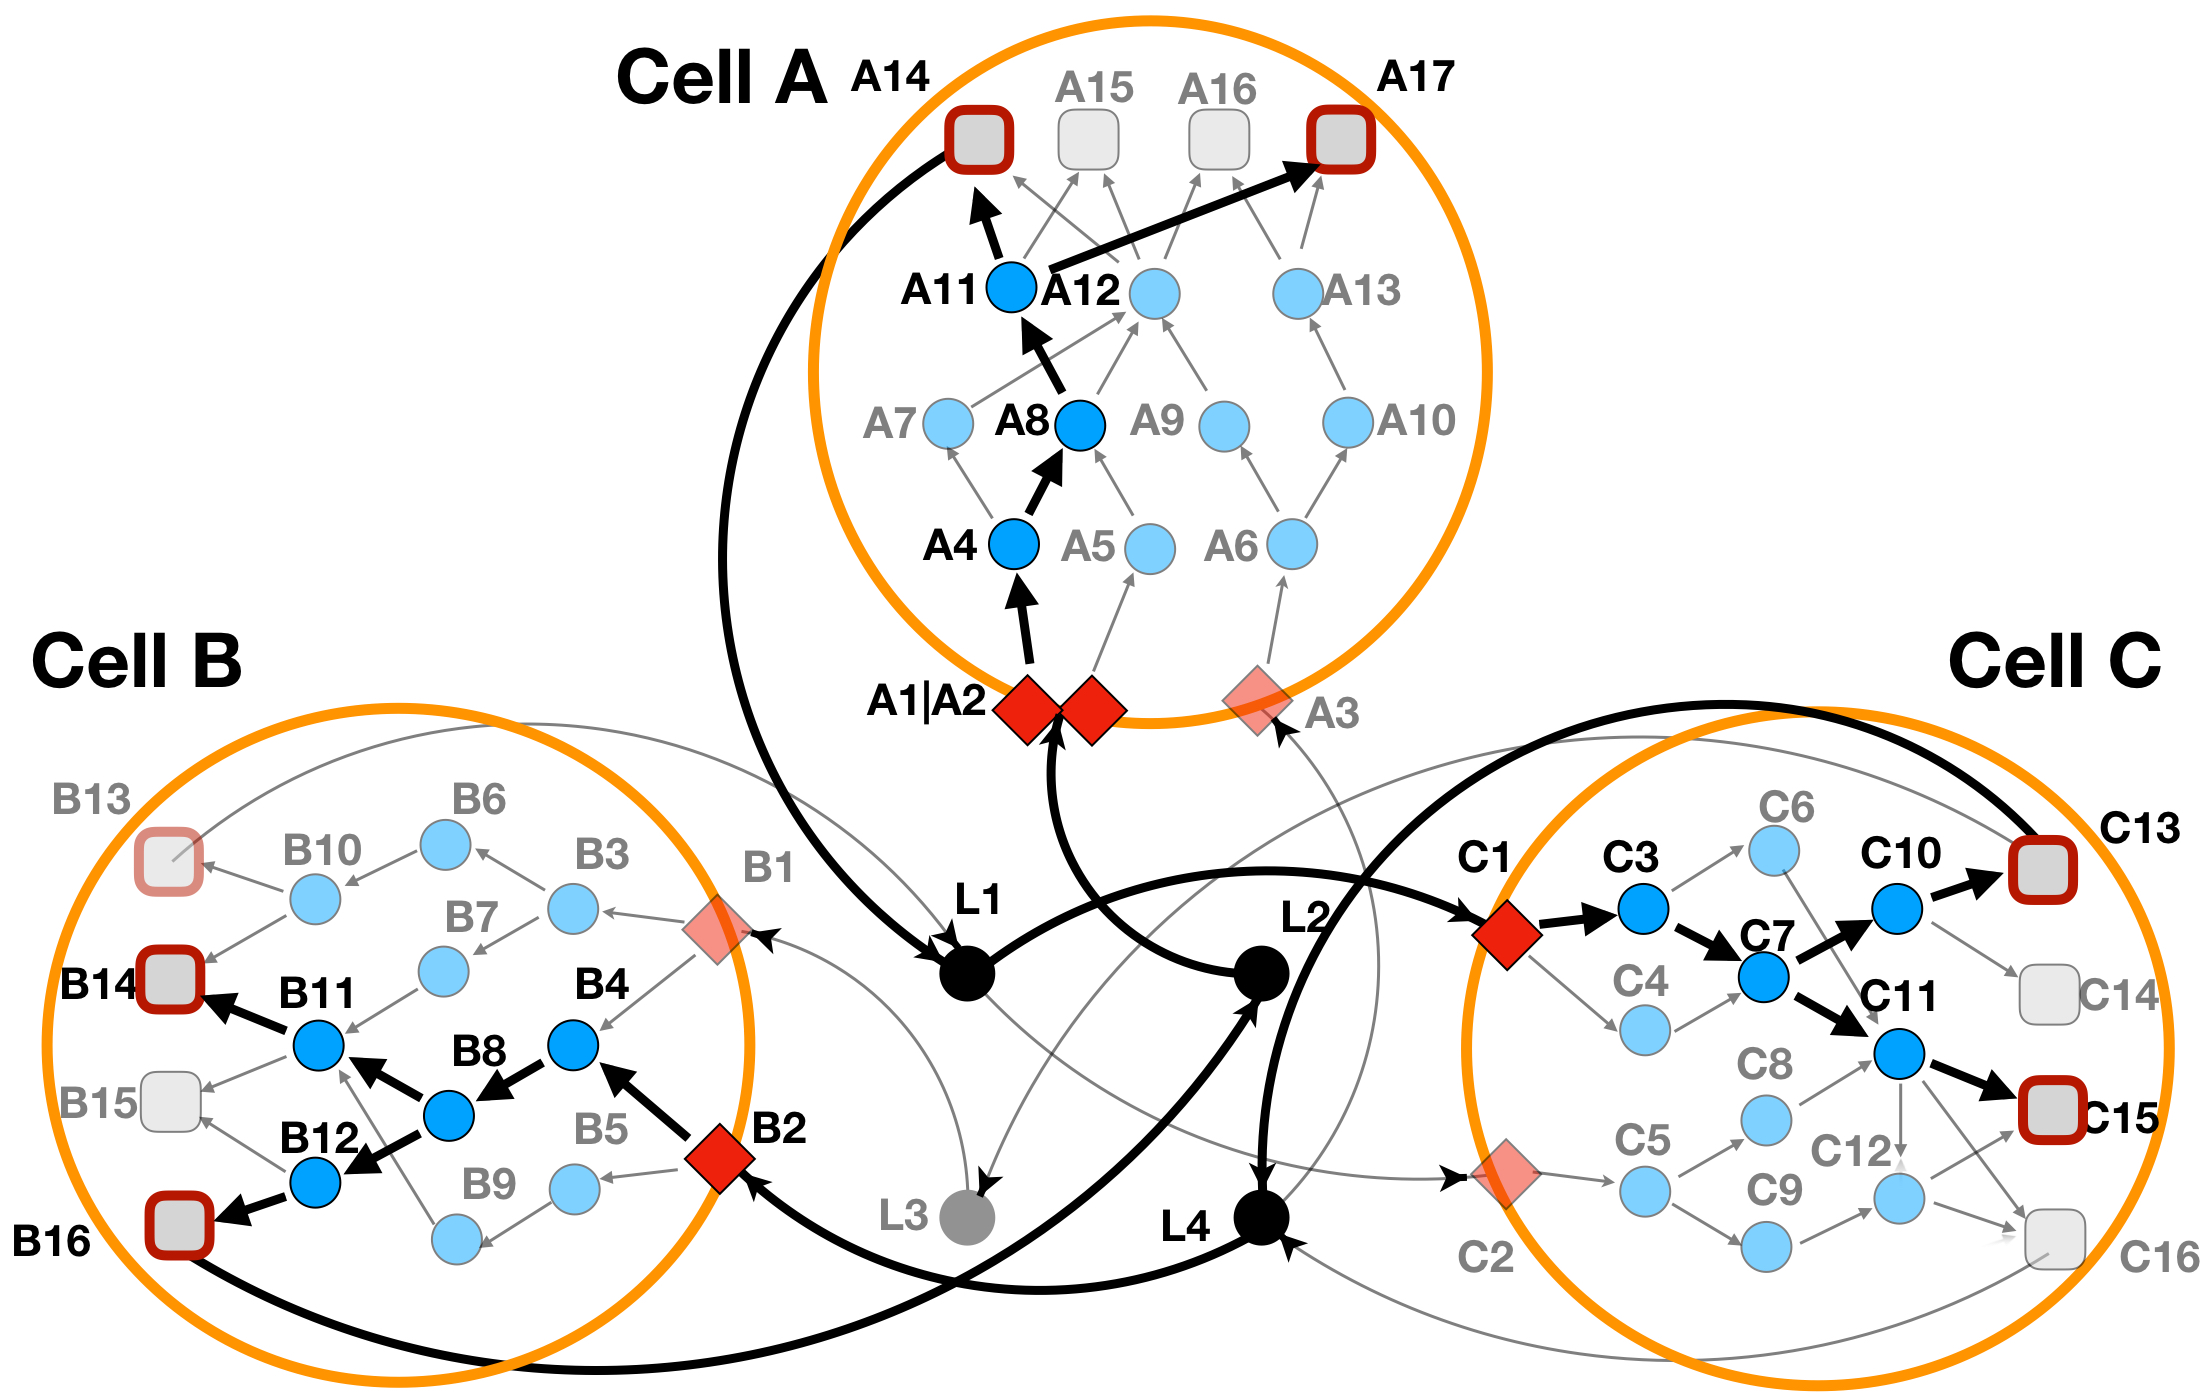
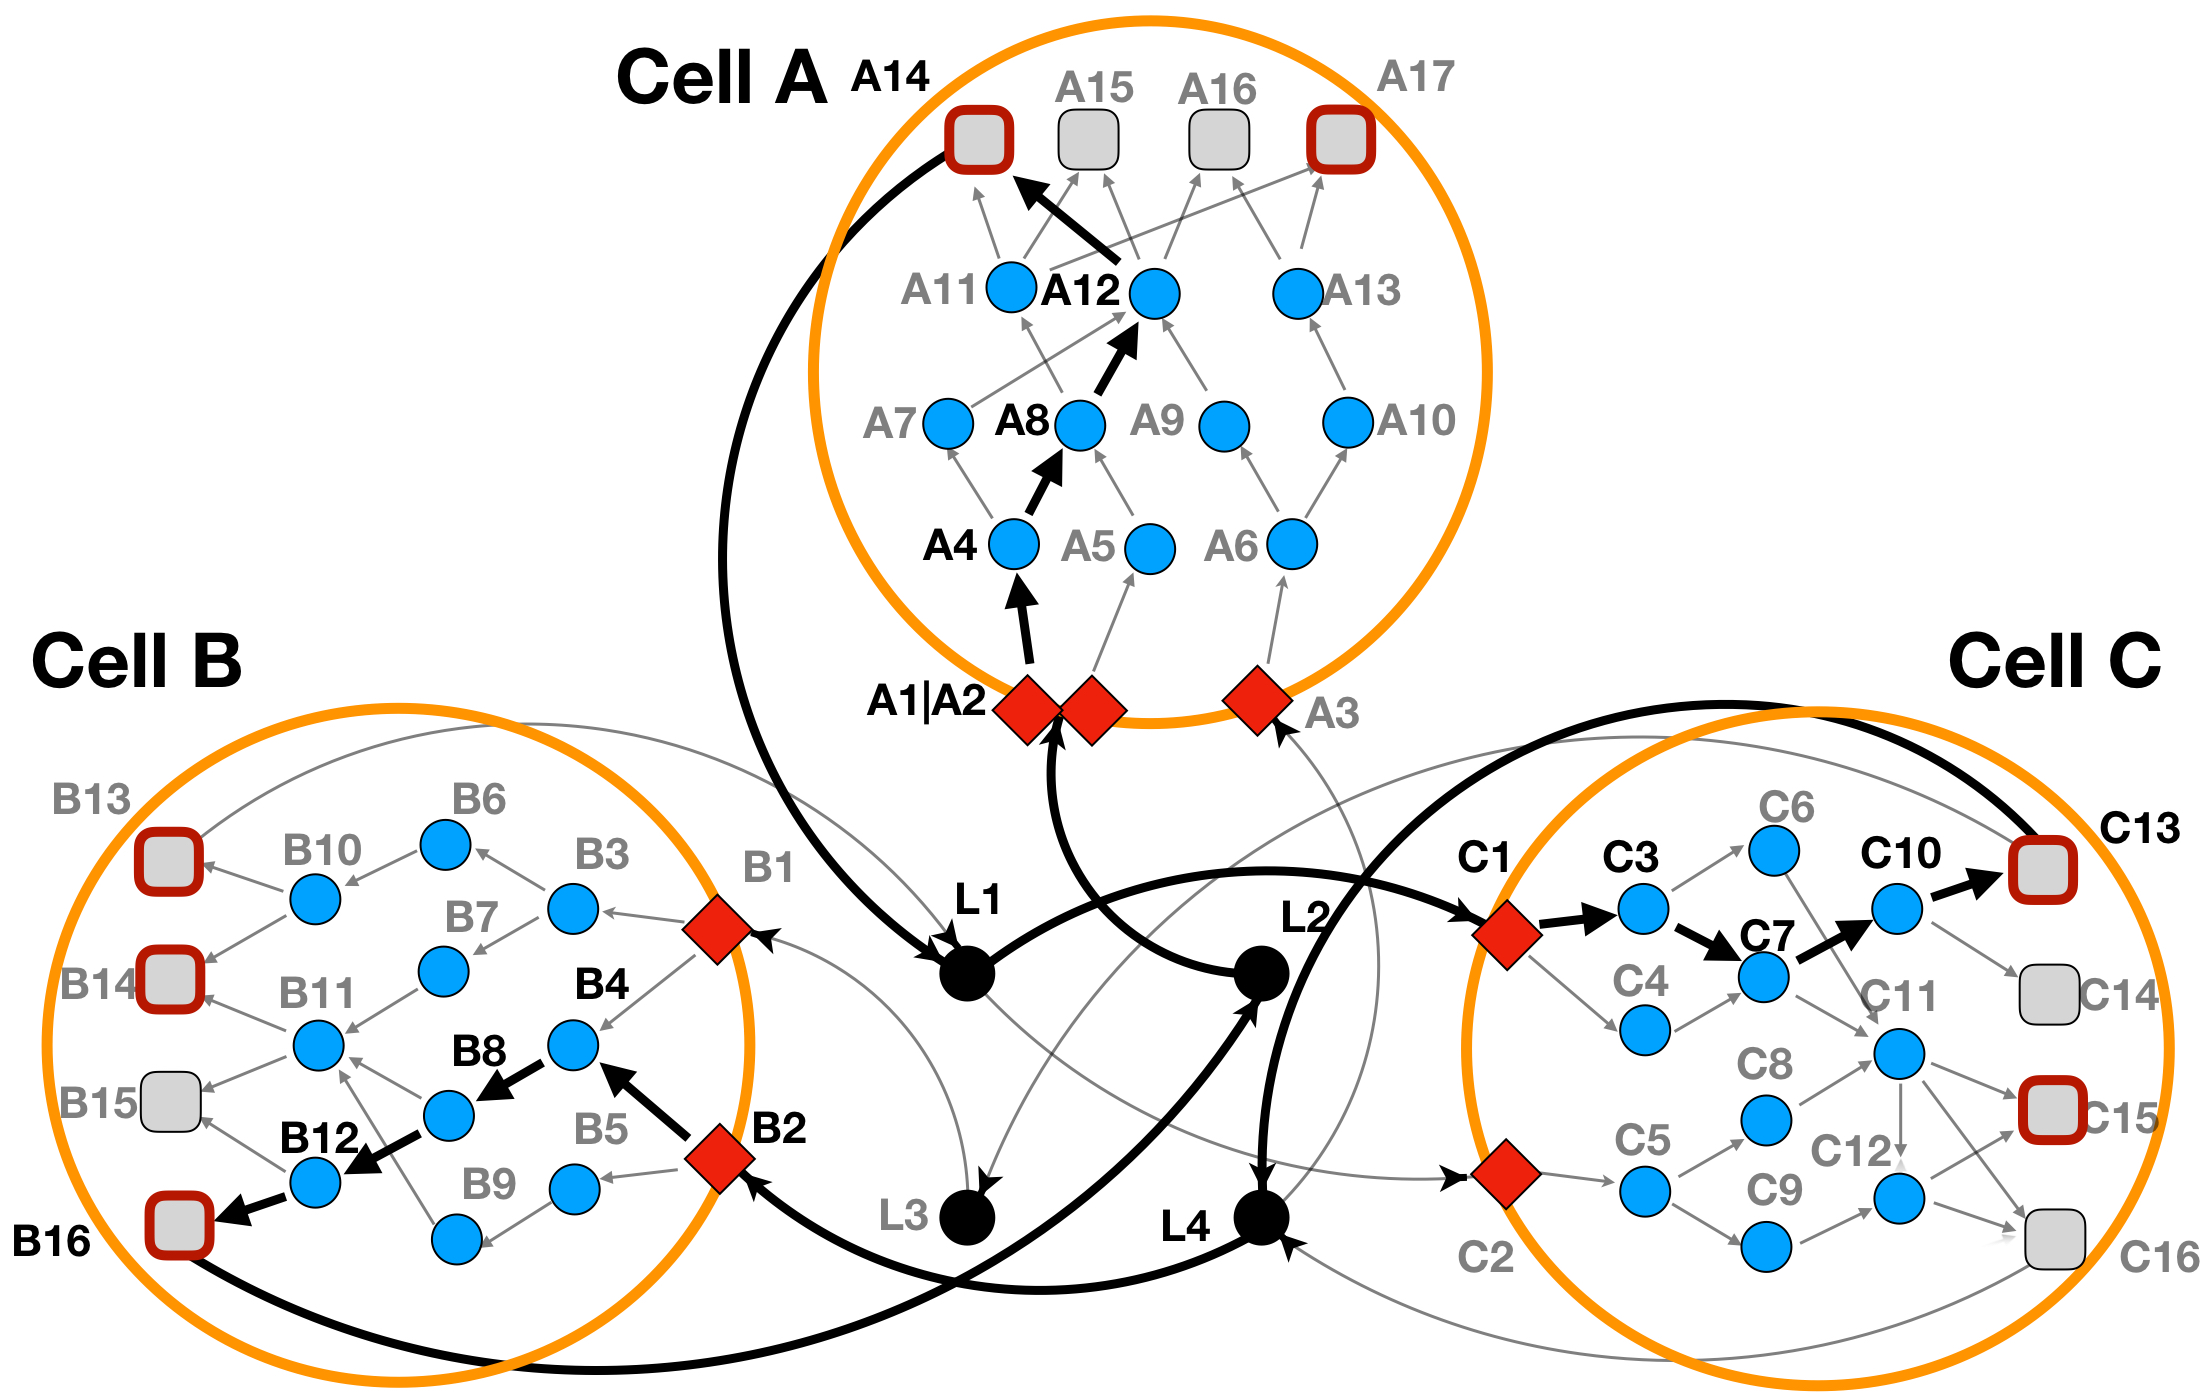
Update tutorial
Update

diff --git a/tutorial.html b/tutorial.html
@@ -121,7 +121,27 @@ load(file = system.file(&quot;extdata&quot;, &quot;toy.background.networks.list.
 # print(background.networks.list)
 </code></pre>
 <h3 id="linda-basic-mode-analysis">LINDA+ basic mode analysis</h3>
-<p>For running LINDA+ in it's basic mode, besides the <code>background.networks.list</code> object, we would also need to provide a list of TF enrichment scores for each cell-type as well as define which one of them are to be considered as significantly regulated based on their absolute enrichment score values. More information about how we can obtain TF enrichment score values for each cell-type based on sc/sn-RNAseq data has been provided here (link to real case example when ready).</p>
+<p>For running LINDA+ in it's basic mode, besides the <code>background.networks.list</code> object, we would also need to either provide a table of ligand-receptor interactions between a transmitter and receiver cell (as made evident by cell-cell communcation analyses) or a list of TF enrichment scores for each cell-type as (as made evident by TF enrichment analyses). For the latter case, we would also need to define which TF's are to be considered as significantly regulated based on their absolute enrichment score values. More information about how we can obtain such inputs from real-case sc/sn-RNAseq data has been provided here (link to real case example when ready).</p>
+
+<p>For the first case when we provide cell-communication analysis results as inputs (through the <code>ccc.input</code> object), they should be provided as a data table which contains information about the interacting ligand-receptor pairs as well as transmitter and receiver cells as shown in the object which is loaded in the following way:.</p>
+
+<pre><code class="language-r">load(file = system.file(&quot;extdata&quot;, &quot;toy.ccc.input.RData&quot;, package = &quot;LINDAPlus&quot;))
+# print(ccc.input)
+</code></pre>
+
+<p>This is all that would be needed to run LINDA+ in it's simplest form by giving cell-communication data as an input and we can anchieve this as in the following:</p>
+
+<pre><code class="language-r">res &lt;- runLINDAPlus(background.networks.list = background.networks.list,
+                    ccc.input = ccc.input,
+                    solverPath = &quot;/usr/bin/cplex&quot; #or just change the path to where the cplex executable is located)
+                    
+<p>The optimization results (as read from the <code>res$combined_solutions</code> output table), has been depicted in the <strong>Figure 3a</strong> below.</p>
+<div style="text-align: center;">
+    <img src="img/lindaplus_toy_ex1a.jpeg" alt="LINDA+ Basic Run" />
+    <p><em>Figure 3a: LINDA+ 3-Cell System Toy Example - Basic Run with cell-cell communication scores as input. In bold are highlighted the interactions and nodes that have been inferred as functional/regulated in our network analysis.</em></p>
+</div>
+
+
 <p>The estimated TF activity scores should be provided as a named list (for each cell-type) and which contains data-frames indicating the enrichment scores for each TF at each cell-type like in the object that we load below:</p>
 <pre><code class="language-r">load(file = system.file(&quot;extdata&quot;, &quot;toy.tf.scores.RData&quot;, package = &quot;LINDAPlus&quot;))
 # print(tf.scores)
@@ -139,24 +159,26 @@ load(file = system.file(&quot;extdata&quot;, &quot;toy.background.networks.list.
 # print(res$combined_solutions)
 # print(res$node_attributes)
 </code></pre>
-<p>The optimization results (as read from the <code>res$combined_solutions</code> output table), has been depicted in the <strong>Figure 3</strong> below.</p>
+<p>The optimization results (as read from the <code>res$combined_solutions</code> output table), has been depicted in the <strong>Figure 3b</strong> below.</p>
 <div style="text-align: center;">
     <img src="img/lindaplus_toy_ex1.jpeg" alt="LINDA+ Basic Run" />
-    <p><em>Figure 3: LINDA+ 3-Cell System Toy Example - Basic Run. In bold are highlighted the interactions and nodes that have been inferred as functional/regulated in our network analysis.</em></p>
+    <p><em>Figure 3b: LINDA+ 3-Cell System Toy Example - Basic Run with TF activity scores provided as inputs. In bold are highlighted the interactions and nodes that have been inferred as functional/regulated in our network analysis.</em></p>
 </div>
 
+<p>Users can optionally also chose to provide both types of inputs at the same time and thus giving information about events in both the intra-cellular and extra-cellular space for inferring networks of protein interactions.</p>
+
 <h3 id="linda-with-ligand-scores-analysis">LINDA+ with ligand scores analysis</h3>
-<p>Users can provide information about the abundance of ligands in the extra-cellular space as made evident by Secretomics data through a data-frame object. More abundant ligands/extra-cellular molecules are more likely to initiate conformational changes in receptors. The data-frame provided should contain two columns: ‘ligands’ (providing the ligand ID’s) and ‘score’ (providing the score associated to each ligand, i.e. abundance). The higher the score of the ligand, the more likely it will be for a ligand to appear in the solution. In this case, we penalize the inclusion of ligand L3 in the solution (lower score value given).</p>
+<p>Users can provide information about the abundance of ligands in the extra-cellular space as made evident by Secretomics data through a data-frame object. More abundant ligands/extra-cellular molecules are more likely to initiate conformational changes in receptors. The data-frame provided should contain two columns: ‘ligands’ (providing the ligand ID’s) and ‘score’ (providing the score associated to each ligand, i.e. abundance). The higher the score of the ligand, the more likely it will be for a ligand to appear in the solution. In this case, we penalize the inclusion of ligand L3 in the solution (lower score value given) and we provide the <code>ccc.input</code> as the other mandatory input in the analysis.</p>
 <pre><code class="language-r">## Loading the ligand scores
 load(file = system.file(&quot;extdata&quot;, &quot;toy.ligand.scores.RData&quot;, package = &quot;LINDAPlus&quot;))
 # print(ligand.scores)
 
 ## Running LINDA+
 res &lt;- runLINDAPlus(background.networks.list = background.networks.list,
-                    tf.scores = tf.scores,
+                    ccc.input = ccc.input,
                     solverPath = &quot;/usr/bin/cplex&quot;, #or just change the path to where the cplex executable is located
-                    top.tf = top.tf,
-                    ligand.scores = ligand.scores)
+                    ligand.scores = ligand.scores,
+                    lambda1 = 5, lambda2 = 1, lambda4 = 20)
 
 # print(res$combined_solutions)
 # print(res$node_attributes)
@@ -165,28 +187,6 @@ res &lt;- runLINDAPlus(background.networks.list = background.networks.list,
 <div style="text-align: center;">
     <img src="img/lindaplus_toy_ex2.jpeg" alt="LINDA+ Ligand Scores" />
     <p><em>Figure 4: LINDA+ 3-Cell System Toy Example - Analysis with ligand scores. In bold are highlighted the interactions and nodes that have been inferred as functional/regulated in our network analysis. Ligand 'L3', does not participate anymore in the interaction.</em></p>
-</div>
-
-<h3 id="linda-with-ligand-receptor-scores-analysis">LINDA+ with ligand-receptor scores analysis</h3>
-<p>In the case when Secretomics data is not available, users may still have evidence of functional ligand-receptor interactions. This evidence can come from previous cell-communication analysis based on sc-RNAseq data. In such cases, users can integrate the enrichment scores for ligand-receptor pairs into LINDA+. Doing so helps guide the network inference towards the desired ligand-receptor interactions. In this case users can provide a named list (for each cell-type) of data-frames consisting of ligand-receptor enrichment scores normalized between the values of 0 and 1.</p>
-<pre><code class="language-r">## Loading the ligand-receptor scores
-load(file = system.file(&quot;extdata&quot;, &quot;toy.lr.scores.RData&quot;, package = &quot;LINDAPlus&quot;))
-# print(lr.scores)
-
-## Running LINDA+
-res &lt;- runLINDAPlus(background.networks.list = background.networks.list,
-                    tf.scores = tf.scores,
-                    solverPath = &quot;/usr/bin/cplex&quot;, #or just change the path to where the cplex executable is located
-                    top.tf = top.tf,
-                    lr.scores = lr.scores)
-
-# print(res$combined_solutions)
-# print(res$node_attributes)
-</code></pre>
-<p>In this case, we have assigned a score 0 for the 'L2=A1|A2' interaction. The optimization result for this case has been depicted in <strong>Figure 5</strong> below.</p>
-<div style="text-align: center;">
-    <img src="img/lindaplus_toy_ex3.jpeg" alt="LINDA+ LR Scores" />
-    <p><em>Figure 5: LINDA+ 3-Cell System Toy Example - Analysis with ligand-receptor scores. In bold are highlighted the interactions and nodes that have been inferred as functional/regulated in our network analysis. Interaction 'L2=A1|A2', does not participate anymore in the solution and the network has been re-wired towards alternative solutions.</em></p>
 </div>
 
 <h3 id="linda-with-cell-cell-communication-scores-analysis">LINDA+ with cell-cell communication scores analysis</h3>
